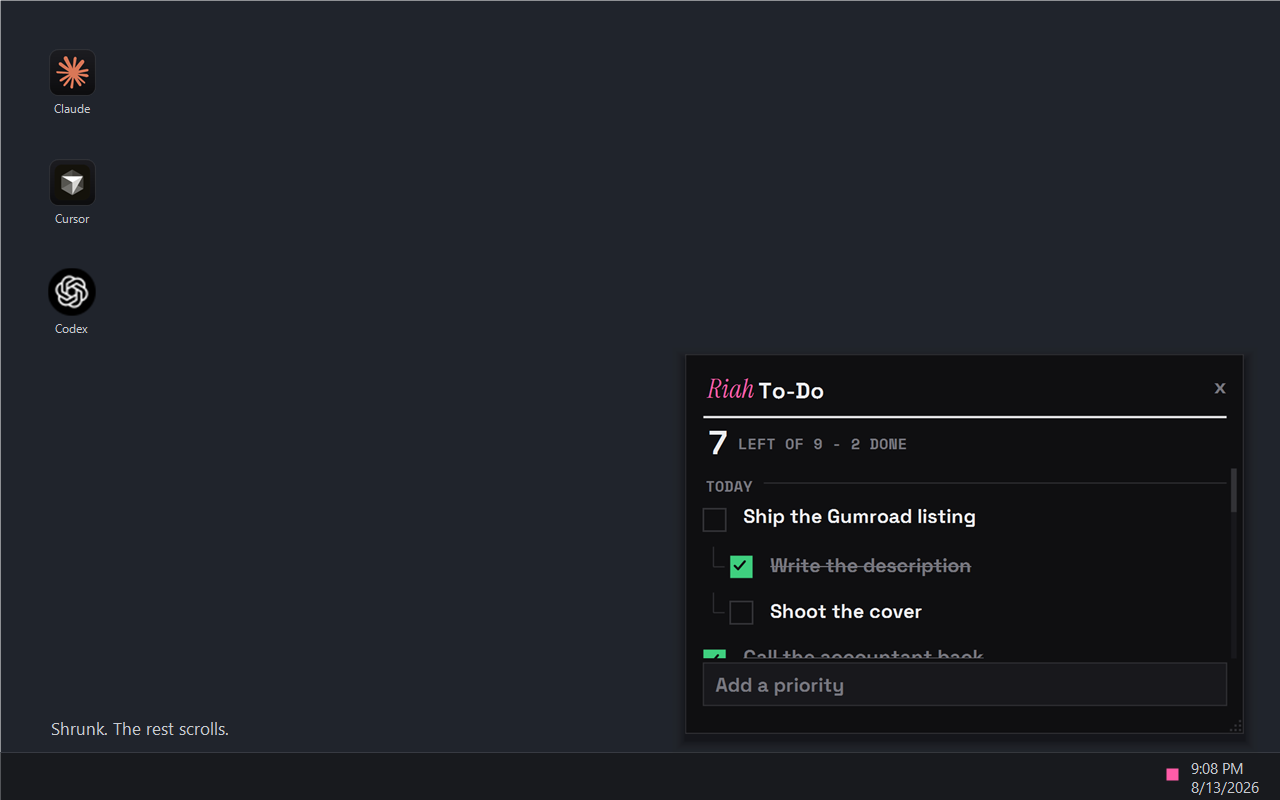
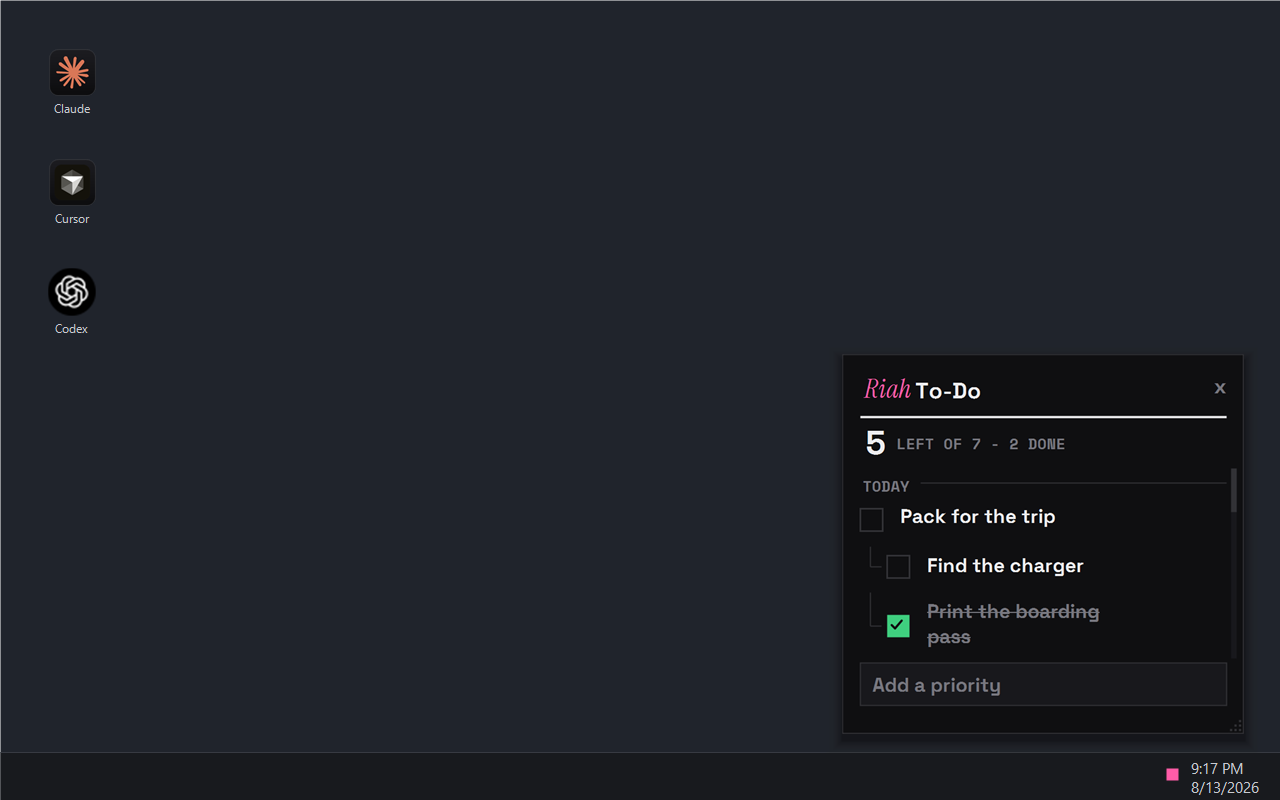
Drop the shot labels. Right note is a different day, narrower, by the clock.

diff --git a/README.md b/README.md
@@ -6,10 +6,9 @@
 
 
 <p align="center">
-  <img src="docs/screenshots/note-dark.png" width="49%" alt="Riah To-Do — the note open tall, showing today’s nested tasks" />
-  <img src="docs/screenshots/note-scrolling.png" width="49%" alt="Riah To-Do — the same note shrunk by the clock; the long list scrolls inside" />
+  <img src="docs/screenshots/note-dark.png" width="49%" alt="Riah To-Do — the note open on a Windows desktop above the clock" />
+  <img src="docs/screenshots/note-scrolling.png" width="49%" alt="Riah To-Do — a smaller note by the clock, list scrolling inside" />
 </p>
-<p align="center"><em>Left: open all the way.&nbsp;&nbsp;Right: drag it short — the list scrolls, it stays by the clock.</em></p>
 
 **The to-do list you'll actually open.**
 
